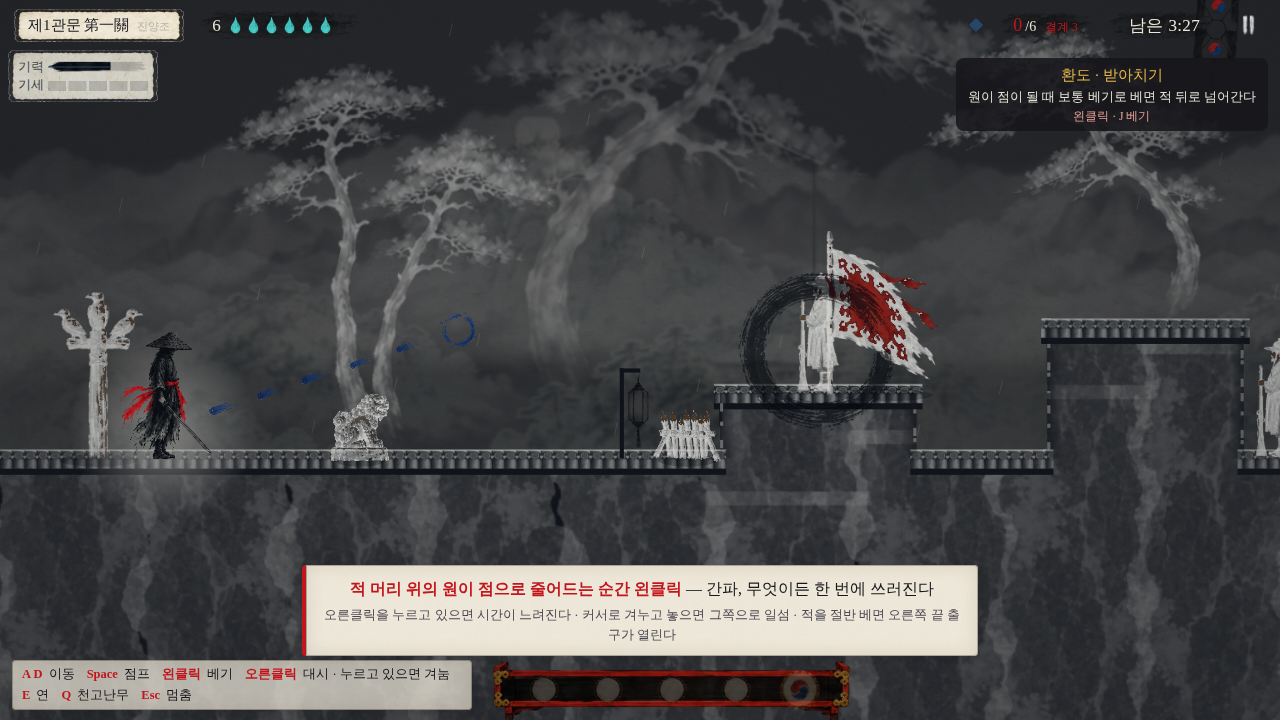
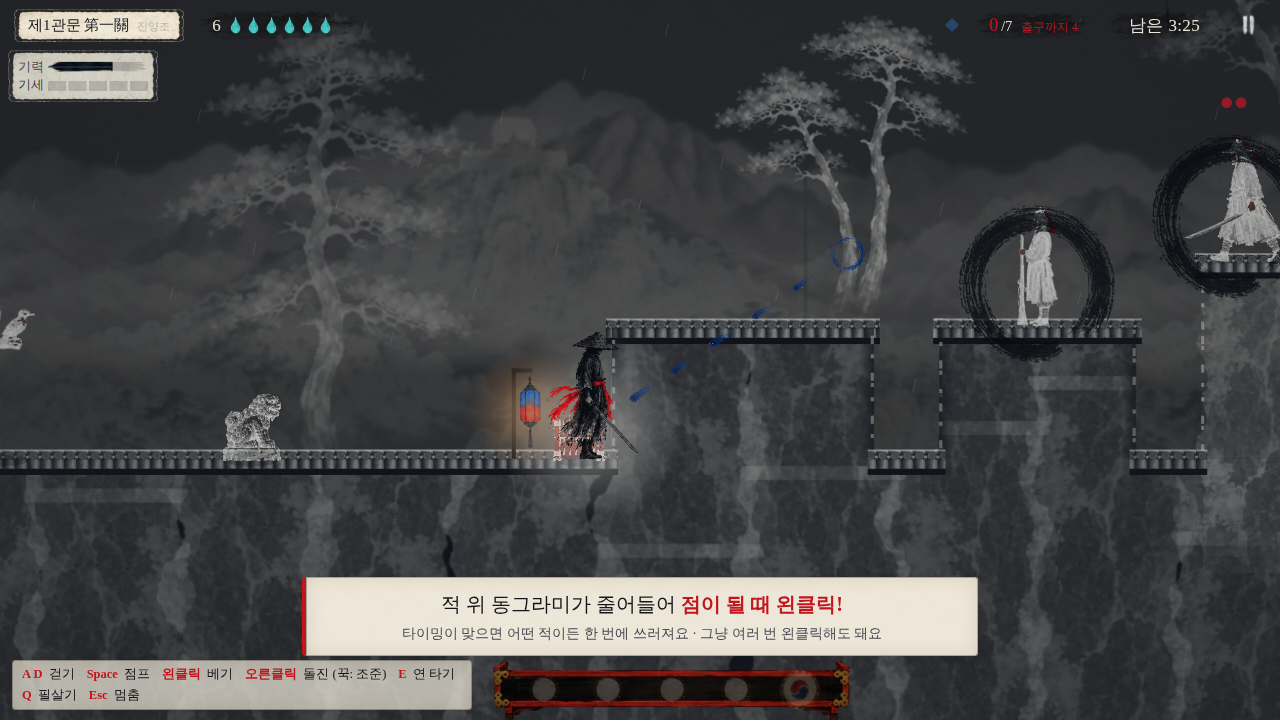
부스판 in plain words for someone who has never played: the title says what to do in three steps; jargon (간파, 무아경, 일섬, 천고난무, 오의, 갈래, 결계, 숨) becomes 타이밍 베기, 돌진, 필살기, 능력, 출구, 생명; the cards say in one line what each choice does; a coach shows one plain line at a time for what is in front of you (walk, the
Claude-Session: https://claude.ai/code/session_01Rc1cVb1vkCQfdutHoe7fgf

diff --git a/js/game.js b/js/game.js
@@ -1663,64 +1663,67 @@ function boothTitle() {
   showScreen("menu"); setTimeout(() => $("bBoothGo").focus({ preventScroll: true }), 30);
 }
 function boothKeys() {
-  board("조작", "마우스와 키보드", [
-    bdRow("이동 · 점프", "A D (또는 ← →) 로 걷고, Space 로 뛴다 · 벽에 붙어 Space 면 벽차기", null),
-    bdRow("베기 — 마우스 왼쪽", "커서 쪽으로 벤다 · 적 머리 위 원이 점으로 줄어드는 순간 베면 간파: 무엇이든 한 번에", null),
-    bdRow("대시 — 마우스 오른쪽 (또는 Shift)", "짧게 누르면 키를 누른 쪽으로 돌진 · 누르고 있으면 무아경: 시간이 느려지고 커서 쪽을 겨눈다, 놓으면 그쪽으로 일섬", null),
-    bdRow("연 — E", "파란 줄이 닿은 연으로 날아오른다", null),
-    bdRow("천고난무 — Q", "왼쪽 아래 북이 가득 차면 화면의 적을 몰아 벤다", null)],
+  board("조작 방법", "마우스와 키보드", [
+    bdRow("걷기 · 점프", "A · D 키로 걷고, Space 로 뛰어요", null),
+    bdRow("베기 — 마우스 왼쪽", "마우스가 있는 쪽을 벱니다 · 적 위 동그라미가 줄어들어 점이 될 때 누르면 한 번에 쓰러져요", null),
+    bdRow("돌진 — 마우스 오른쪽", "누르면 앞으로 돌진 · 꾹 누르고 있으면 시간이 느려지고, 마우스로 방향을 정해 떼면 그쪽으로 베며 돌진해요", null),
+    bdRow("연 타기 — E", "파란 선이 보이면 눌러서 연을 잡고 날아올라요", null),
+    bdRow("필살기 — Q", "아래쪽 북이 가득 차면 주변 적을 한꺼번에 벱니다", null)],
     [["시작하기", boothStart, true], ["돌아가기", boothTitle]]);
 }
 function boothStart() {
   if (hubOn) leaveHub();
   const seed = (Math.random() * 2 ** 32) >>> 0;
   run = { v: 2, booth: true, seed, dateKey: todayKey(), m: 0, cp: -1, dead: [], sp: 0, breath: startBreath(), time: 0, deaths: 0, kills: 0, strikes: 0, slashes: 0, perks: [], weapon: "hwando", oath: null, char: "mumyeong", picking: false, target: BOOTH_BOSSES[seed % BOOTH_BOSSES.length], qi: 0, gates: 0 };
-  mode = "run"; boothLast = performance.now(); Music.unlock(); Music.stop(); showInterlude();
+  mode = "run"; boothLast = performance.now(); coachOn = null; Music.unlock(); Music.stop(); showInterlude();
 }
 function boothGateClear() { // a gate passed: a breath back, then the card for this point of the journey
   logGate("clear"); run.gather = 0; run.gates = (run.gates || 0) + 1;
   { const c = cutCount(); if (c && c.k >= c.n && c.n >= 3) { addQi(20); run.sweeps = (run.sweeps || 0) + 1; popText(P.x + P.w / 2, P.y - 84, "일소", SEAL); } }
-  if (run.breath < BOOTH_CFG.breath) { run.breath++; toast(`숨을 골랐다 · 숨 ${run.breath}`); }
+  if (run.breath < BOOTH_CFG.breath) { run.breath++; toast(`관문 통과! 생명 +1`); } else toast("관문 통과!");
   const first = run.m === 0;
   run.m = first ? 1 : LAST_M; run.node = null; run.nakN = 0; run.janUsed = false; run.senN = 0; run.fudoN = 0; run.cp = -1; run.dead = []; run.cutDrums = [];
   state = "result"; setTimeout(() => first ? boothBranch() : boothFork(), 700);
 }
 const boothGlyph = c => c.han || (c.name || "?").slice(0, 2);
+const BOOTH_PLAIN = { br: { hwando: ["타이밍 베기를 연달아 성공할수록 강해지고, 필살기 게이지가 빨리 차요", "벤 자리에 분신이 남아 0.4초 뒤 한 번 더 벱니다", "날아오는 탄을 베면 되돌아가 가까운 적을 맞혀요"] },
+  fork: { hw_a3x: "타이밍 베기 판정이 더 넉넉해져요", hw_a3y: "타이밍 베기에 성공하면 공중에서 한 번 더 돌진하고, 필살기 게이지가 두 배로 차요",
+    hw_b3x: "오른클릭을 꾹 눌렀다 떼면 가까운 적 등 뒤로 넘어가 벱니다", hw_b3y: "돌진으로 적을 베면 공중에서 한 번 더 돌진할 수 있어요",
+    hw_c3x: "타이밍 베기 뒤 1.5초 동안 탄을 막아요", hw_c3y: "타이밍 베기 순간 주변의 탄이 사라져요" } };
 function boothBranch() { // after the first gate: one of the weapon's three branches, its first two steps learned at once
   const tk = treeKey(), TR = TREES[tk]; if (!TR) { Music.stop(); showInterlude(); return; }
   const step = (bi, t) => CHOSIK.find(c => c.tree === tk && c.br === bi && c.tier === t && nodeShown(c) && !c.alt) || CHOSIK.find(c => c.tree === tk && c.br === bi && c.tier === t && nodeShown(c));
   const items = TR.br.map((b, bi) => { const a = step(bi, 1), b2 = step(bi, 2), og = CHOSIK.find(c => c.tree === tk && c.br === bi && c.ougi);
-    return { id: bi, name: b.name, han: b.han, glyph: b.han || b.name, desc: [a, b2].filter(Boolean).map(c => `${c.name} — ${c.desc}`).join("\n") + (og ? `\n끝에 오의 「${og.name}」` : "") }; });
-  pickScreen("갈래를 골라라", "관문 하나를 넘었다 · 고른 갈래의 1·2단을 바로 익힌다", items, it => {
+    return { id: bi, name: b.name, han: b.han, glyph: b.han || b.name, desc: (BOOTH_PLAIN.br[tk] && BOOTH_PLAIN.br[tk][bi]) || [a, b2].filter(Boolean).map(c => `${c.name} — ${c.desc}`).join("\n") }; });
+  pickScreen("능력을 하나 고르세요", "첫 관문 통과! 마음에 드는 카드를 마우스로 누르세요", items, it => {
     const root = CHOSIK.find(c => c.tree === tk && c.tier === 0);
     for (const c of [root, step(it.id, 1), step(it.id, 2)]) if (c && !run.perks.includes(c.id)) run.perks.push(c.id);
-    run.boothBr = it.id; toast(`${it.name} 갈래를 익혔다`); Music.stop(); showInterlude(); });
+    run.boothBr = it.id; toast(`「${it.name}」 능력을 얻었어요`); Music.stop(); showInterlude(); });
 }
 function boothFork() { // before 천고대: one of the branch's two 3단, the 4단 with it — and 천고난무 becomes the 오의
   const tk = treeKey(), bi = run.boothBr ?? 0, shown = c => c.tree === tk && c.br === bi && nodeShown(c);
   const forks = CHOSIK.filter(c => shown(c) && c.tier === 3), t4 = CHOSIK.find(c => shown(c) && c.tier === 4), og = CHOSIK.find(c => c.tree === tk && c.br === bi && c.ougi);
   const go = id => { if (id && !run.perks.includes(id)) run.perks.push(id); if (t4 && !run.perks.includes(t4.id)) { run.perks.push(t4.id); branchEnd(t4); }
-    run.breath = Math.max(run.breath, 4); run.qi = Math.max(run.qi || 0, 60); Music.stop(); showInterlude(); };
+    run.breath = Math.max(run.breath, 4); run.qi = Math.max(run.qi || 0, 60); toast("필살기(Q)가 강해졌어요"); Music.stop(); showInterlude(); };
   if (!forks.length) { go(null); return; }
-  pickScreen("오의를 깨쳐라", `천고대 앞 · 하나를 고르면 4단${t4 ? ` 「${t4.name}」` : ""}까지 익히고, 천고난무가 오의${og ? ` 「${og.name}」` : ""}로 바뀐다`,
-    forks.map(c => ({ id: c.id, name: c.name, han: c.han, glyph: boothGlyph(c), desc: c.desc })), it => go(it.id));
+  pickScreen("하나 더 고르세요", "다음은 마지막 우두머리! 고르면 필살기(Q)도 더 강해져요", forks.map(c => ({ id: c.id, name: c.name, han: c.han, glyph: boothGlyph(c), desc: BOOTH_PLAIN.fork[c.id] || c.desc })), it => go(it.id));
 }
 function boothRevive() { // the last breath gone, once: this gate again from its start with four breaths
   if (run.revived || run.timeUp || run.ended) return false;
   run.revived = true; run.breath = BOOTH_CFG.revive; run.cp = -1; run.dead = []; run.cutDrums = []; state = "result";
-  toast(`한 번 더 — 이 관문을 처음부터 · 숨 ${run.breath}`); setTimeout(() => { Music.stop(); showInterlude(); }, 1100); return true;
+  toast(`한 번 더! 이 관문을 처음부터 다시 해요 · 생명 ${run.breath}`); setTimeout(() => { Music.stop(); showInterlude(); }, 1100); return true;
 }
-function boothBossDown() { run.bossDown = true; toast("우두머리를 베었다"); setTimeout(() => { if (run && run.booth && run.bossDown && !run.ended && state === "play") endRun(true); }, 2400); }
+function boothBossDown() { run.bossDown = true; toast("우두머리를 쓰러뜨렸어요!"); setTimeout(() => { if (run && run.booth && run.bossDown && !run.ended && state === "play") endRun(true); }, 2400); }
 function boothEnd(won) {
   if (run.ended) return; run.ended = true; state = "result"; Music.stop(); Music.muffle(false); if (P) P.focus = false;
   const left = Math.max(0, BOOTH_CFG.limit - run.time), boss = run.m >= LAST_M;
   const score = Math.round(run.kills * 10 + (run.kanpa || 0) * 25 + (run.perfectN || 0) * 40 + (run.gates || 0) * 150 + (boss ? 150 : 0) + (won ? 1000 + left * 4 : 0));
   const grade = score >= 2000 ? "甲" : score >= 1300 ? "乙" : score >= 600 ? "丙" : "丁";
   run.score = score; run.grade = grade; run.won = !!won;
-  $("rSeal").textContent = grade; $("rTitle").textContent = won ? "천고를 울렸다" : run.timeUp ? "시간이 다했다" : "여기까지";
-  $("rSub").textContent = won ? `${(BOSSES[run.target] || {}).name || "우두머리"}를 베었다 · 남은 시간 ${Math.floor(left)}초` : run.timeUp ? `${stageName(run.m)}에서 시간이 다했다` : `${stageName(run.m)}에서 ${run.lastCause ? run.lastCause + "에 " : ""}마지막 숨을 잃었다`;
+  $("rSeal").textContent = grade; $("rTitle").textContent = won ? "승리!" : run.timeUp ? "시간 끝" : "여기까지";
+  $("rSub").textContent = won ? `우두머리 ${josa((BOSSES[run.target] || {}).name || "우두머리", "을", "를")} 쓰러뜨렸어요 · 남은 시간 ${Math.floor(left)}초` : run.timeUp ? `${run.m >= LAST_M ? "우두머리" : `${run.m + 1}번째 관문`}에서 시간이 다 됐어요` : `${run.m >= LAST_M ? "우두머리" : `${run.m + 1}번째 관문`}에서 생명을 모두 잃었어요`;
   $("rStats").innerHTML = "";
-  for (const [k, v] of [["점수", `${score}점`], ["등급", grade], ["넘은 관문", `${run.gates || 0} / 2${won ? " · 천고대" : ""}`], ["벤 적", run.kills], ["간파", `${run.kanpa || 0}회`], ["시간", fmt(run.time)]]) {
+  for (const [k, v] of [["점수", `${score}점`], ["등급", grade], ["지나온 관문", `${run.gates || 0} / 2${won ? " · 우두머리" : ""}`], ["벤 적", run.kills], ["타이밍 베기", `${run.kanpa || 0}번`], ["시간", fmt(run.time)]]) {
     const a = document.createElement("span"), b = document.createElement("b"); a.textContent = k; b.textContent = v; $("rStats").append(a, b); }
   $("rRec").textContent = ""; const top = boothTop(10); const rank = top.filter(e => e.s > score).length + 1; if (rank <= 10) $("rRec").textContent = `오늘 ${rank}위에 들 점수`;
   $("boothName").hidden = false; const inp = $("nameIn"); inp.value = ""; showScreen("result"); setTimeout(() => inp.focus({ preventScroll: true }), 60);
@@ -1735,16 +1738,39 @@ function boothBoard(me) {
   if (!rows.length) rows.push(bdRow("아직 아무도 없다", "", null));
   board("오늘의 순위", todayKey(), rows, [["다시 하기", boothStart, true], ["처음으로", boothTitle]]);
 }
+// 안내: one plain line at a time, for what is in front of the player right now; each once a journey
+const nearFoe = r => P && enemies.some(e => e.alive && e.type !== "b" && Math.hypot(e.x + e.w / 2 - P.x - P.w / 2, e.y + e.h / 2 - P.y - P.h / 2) < r);
+const exitShutNear = () => { const c = cutCount(); return !!(c && LV.exit && c.k < c.need && LV.exit.x - P.x < 520 && LV.exit.x > P.x) && c; };
+const COACH = [
+  { id: "move", when: () => run.m === 0, done: c => P.x - c.x0 > 200, max: 14, t: () => "<b>A · D 키</b>로 오른쪽으로 가세요", s: "Space = 점프" },
+  { id: "cut", when: () => run.kills === 0 && nearFoe(380), done: () => run.kills > 0, max: 18, t: () => "적 위 동그라미가 줄어들어 <b>점이 될 때 왼클릭!</b>", s: "타이밍이 맞으면 어떤 적이든 한 번에 쓰러져요 · 그냥 여러 번 왼클릭해도 돼요" },
+  { id: "dash", when: () => run.kills >= 1 && run.m === 0, done: () => false, max: 8, t: () => "<b>오른클릭 = 돌진</b>", s: "꾹 누르고 있으면 시간이 느려져요 · 마우스로 방향을 정하고 떼면 그쪽으로 베며 돌진" },
+  { id: "hurt", when: () => run.breath < BOOTH_CFG.breath && !run.revived, done: () => false, max: 6, t: () => "왼쪽 위 <b>물방울이 생명</b>이에요", s: "다 잃어도 한 번은 그 관문부터 다시 할 수 있어요" },
+  { id: "kite", when: () => !!(hookCand && !hookCand.enemy), done: () => !!run.hooked, max: 8, t: () => "파란 선이 보이면 <b>E</b> — 연을 잡고 날아올라요", s: "" },
+  { id: "exit", when: () => !!exitShutNear(), done: () => !exitShutNear(), max: 9, t: () => { const c = cutCount(); return `출구가 막혀 있어요 — 적을 <b>${c ? Math.max(0, c.need - c.k) : 0}명</b> 더 베세요`; }, s: "오른쪽 위 숫자 = 벤 적 / 전체" },
+  { id: "qi", when: () => (run.qi || 0) >= 100, done: () => (run.qi || 0) < 100, max: 14, t: () => "북이 가득 찼어요! <b>Q = 필살기</b>", s: "주변 적을 한꺼번에 벱니다" },
+  { id: "boss", when: () => run.m >= LAST_M, done: () => false, max: 9, t: () => "마지막 우두머리! <b>위쪽 체력</b>이 다 닳으면 승리", s: "공격은 점프나 오른클릭 돌진으로 피하고, 몸이 번쩍일 때 몰아서 베세요" }];
+let coachOn = null, coachAt = 0, coachKey = "";
+function boothCoach(playing) {
+  const el = $("boothHelp"); if (!playing || !P) { el.hidden = true; return; }
+  const seen = run.coach = run.coach || {}, now = performance.now();
+  if (coachOn && (coachOn.done(coachOn) || (now - coachAt) / 1000 > coachOn.max)) { seen[coachOn.id] = 1; coachOn = null; }
+  if (!coachOn) for (const c of COACH) if (!seen[c.id] && c.when()) { coachOn = c; c.x0 = P.x; coachAt = now; break; }
+  if (!coachOn) { el.hidden = true; return; }
+  const t = coachOn.t(), key = coachOn.id + t; if (key !== coachKey) { coachKey = key; el.innerHTML = `<span>${t}</span>${coachOn.s ? `<small>${coachOn.s}</small>` : ""}`; }
+  el.hidden = false;
+}
 function boothTick() { // four times a second: the time limit, an idle booth going back to its title, the interlude walking on by itself, the hints
   if (!BOOTH) return; const now = performance.now(), idle = (now - boothLast) / 1000, menu = !$("menu").hidden;
   const st = state + ($("interlude").hidden ? "" : ":i"); if (st !== boothState) { boothState = st; boothStateAt = now; }
   const playing = state === "play" && run && run.booth;
-  if (playing && run.time >= BOOTH_CFG.limit && !run.timeUp && !run.ended) { run.timeUp = true; toast("시간이 다했다"); endRun(false); }
+  if (playing && run.time >= BOOTH_CFG.limit && !run.timeUp && !run.ended) { run.timeUp = true; toast("시간이 다 됐어요"); endRun(false); }
+  if (!$("interlude").hidden && run && run.booth) $("iMeta").textContent = run.m >= LAST_M ? "마지막 · 우두머리와 싸워요 · 곧 시작해요" : `관문 ${run.m + 1} / 2 · 곧 시작해요`;
   if (!$("interlude").hidden && run && run.booth && now - boothStateAt > 2600) { boothStateAt = now + 1e9; $("bEnter").click(); }
   if (!menu && idle > (playing ? BOOTH_CFG.idlePlay : BOOTH_CFG.idleMenu) && document.activeElement !== $("nameIn")) boothTitle();
   if (!menu && idle > 90) boothTitle();
   $("boothKeys").hidden = !playing;
-  $("boothHelp").hidden = !(playing && run.m === 0 && run.time < 24 && !run.revived);
+  boothCoach(playing);
 }
 if (BOOTH) {
   document.body.classList.add("booth");
@@ -2549,7 +2575,7 @@ function playerHazards() {
     }
   });
   if (LV.exit && overlap(pr, LV.exit) && !bossAlive()) { const c = cutCount();
-    if (c && c.k < c.need) { P.x = LV.exit.x - P.w - 6; P.vx = -260; shake = Math.max(shake, 4); if (performance.now() - (LV.sealToast || 0) > 1800) { LV.sealToast = performance.now(); toast(`결계 · ${c.need - c.k}명을 더 베어야 열린다 (${c.k}/${c.n})`); Music.sfx("clang"); } }
+    if (c && c.k < c.need) { P.x = LV.exit.x - P.w - 6; P.vx = -260; shake = Math.max(shake, 4); if (performance.now() - (LV.sealToast || 0) > 1800) { LV.sealToast = performance.now(); toast(BOOTH ? `출구가 막혀 있어요 · 적을 ${c.need - c.k}명 더 베세요` : `결계 · ${c.need - c.k}명을 더 베어야 열린다 (${c.k}/${c.n})`); Music.sfx("clang"); } }
     else madangClear(); }
 }
 
@@ -2590,7 +2616,7 @@ function cutCount() {
   return { k, n, need: Math.ceil(n * (BOOTH ? BOOTH_CFG.cut : TUNING.GATE_CUT_RATIO)) };
 }
 function stepChase(dt) {
-  const c = cutCount(); if (c && c.k >= c.need && !LV.sealOpen) { LV.sealOpen = true; Music.sfx("lantern"); toast(c.k >= c.n ? "결계가 풀렸다 · 일소" : `결계가 풀렸다 · 출구로 · 남은 적 ${c.n - c.k}`); }
+  const c = cutCount(); if (c && c.k >= c.need && !LV.sealOpen) { LV.sealOpen = true; Music.sfx("lantern"); toast(BOOTH ? "출구가 열렸어요 · 오른쪽 끝으로 가세요" : c.k >= c.n ? "결계가 풀렸다 · 일소" : `결계가 풀렸다 · 출구로 · 남은 적 ${c.n - c.k}`); }
   if (!c || c.k >= c.need && !(run.gate && run.gate.goal === "time")) return;
   if ((LV.chaseT = (LV.chaseT || TUNING.CHASE_EVERY) - dt) > 0) return; LV.chaseT = TUNING.CHASE_EVERY;
   if (LV.arenas && LV.arenas.some(a => a.st === 1)) return;
@@ -3599,13 +3625,14 @@ let hudCache = "";
 function updateHud() {
   const t = run.booth ? `남은 ${fmt(Math.max(0, BOOTH_CFG.limit - run.time)).replace(/\.\d+$/, "")}` : fmt(run.time), pip = (P.onGround || P.airDash > 0) && P.dashCd <= 0, hk = !!hookCand, key = t + pip + hk;
   { const el = $("hCoin"), v = run && !run.hub && !run.booth && mode !== "tutorial" ? `${run.coin || 0}` : "", key = `${v}|${(run && run.charm) || 0}`; if (el && el.dataset.t !== key) { el.dataset.t = key; el.hidden = !v; el.innerHTML = `<i class="itc" aria-label="엽전"></i><b>${v}</b>${run.charm ? `<i class="itc ch" aria-label="부적"></i><small>${run.charm}</small>` : ""}`; } }   // the key holds the charms too, so a bought 부적 shows at once
-  { const c = cutCount(), el = $("hCut"), txt = c ? `벤 적 ${c.k}/${c.n}` : ""; if (el && el.dataset.t !== txt) { el.dataset.t = txt; el.hidden = !c; if (c) { el.innerHTML = `<b>${c.k}</b>/${c.n}<small>${c.k < c.need ? `결계 ${c.need - c.k}` : c.k >= c.n ? "일소" : "열림"}</small>`; el.classList.toggle("open", c.k >= c.need); } } }
+  { const c = cutCount(), el = $("hCut"), txt = c ? `벤 적 ${c.k}/${c.n}` : ""; if (el && el.dataset.t !== txt) { el.dataset.t = txt; el.hidden = !c; if (c) { el.innerHTML = `<b>${c.k}</b>/${c.n}<small>${c.k < c.need ? (BOOTH ? `출구까지 ${c.need - c.k}` : `결계 ${c.need - c.k}`) : c.k >= c.n ? (BOOTH ? "모두 벰" : "일소") : (BOOTH ? "출구 열림" : "열림")}</small>`; el.classList.toggle("open", c.k >= c.need); } } }
   { const gt = gateGoalText(); if (gt !== (P.goalShown ?? null)) { P.goalShown = gt; $("hJang").classList.toggle("goal", !!gt); if (gt) $("hJang").textContent = gt; else setHud(); } }
   if (key === hudCache) return; hudCache = key;
   $("hTime").textContent = t + (showFps ? ` · ${fpsNow}fps ${workMs.toFixed(0)}ms ${Math.round(1000 / vsyncMs)}Hz ${DPR}x${GPU_SOFT ? " SW" : ""}` : ""); $("pip").classList.toggle("on", pip); $("bHook").classList.toggle("ready", hk);
 }
 let tipT = 0;
 function tip(title, desc, keys) { // 첫 사용 안내: shown once per thing, for a few seconds
+  if (BOOTH && run && run.booth) return;
   $("tipT").textContent = title; $("tipD").textContent = desc; $("tipK").textContent = keys || ""; const el = $("tip"); el.hidden = false; requestAnimationFrame(() => el.classList.add("on")); tipT = 4.5; }
 function tipOnce(id, title, desc, keys) { META.tips = META.tips || {}; if (META.tips[id]) return; META.tips[id] = 1; saveMeta(); tip(title, desc, keys); }
 const WTIP = {   // how each weapon's own move is done, by the rules it plays by

diff --git a/index.html b/index.html
@@ -11,8 +11,8 @@
 <meta name="apple-mobile-web-app-status-bar-style" content="black-translucent">
 <meta name="apple-mobile-web-app-title" content="천고">
 <link rel="manifest" href="manifest.webmanifest">
-<link rel="icon" href="icons/icon-192.png?v=10230100">
-<link rel="apple-touch-icon" href="icons/apple-touch-icon.png?v=10230100">
+<link rel="icon" href="icons/icon-192.png?v=10230200">
+<link rel="apple-touch-icon" href="icons/apple-touch-icon.png?v=10230200">
 <link rel="preconnect" href="https://fonts.googleapis.com">
 <link rel="preconnect" href="https://fonts.gstatic.com" crossorigin>
 <link rel="stylesheet" href="https://fonts.googleapis.com/css2?family=Song+Myung&display=swap">
@@ -20,7 +20,7 @@
 <link rel="stylesheet" href="https://fonts.googleapis.com/css2?family=Nanum+Myeongjo&display=swap&text=%E4%B8%80%E4%B8%89%E4%B8%8A%E4%B8%8B%E4%B8%8D%E4%B8%99%E4%B8%9E%E4%B8%AD%E4%B8%B8%E4%B8%B9%E4%B8%BB%E4%B9%99%E4%B9%9D%E4%BA%82%E4%BA%8C%E4%BA%94%E4%BA%95%E4%BA%AD%E4%BF%83%E4%BF%AE%E5%81%87%E5%81%9C%E5%83%A7%E5%85%89%E5%85%A5%E5%85%A9%E5%85%AD%E5%85%B5%E5%85%B7%E5%86%A4%E5%86%B6%E5%86%B7%E5%87%8C%E5%88%80%E5%88%83%E5%88%86%E5%88%87%E5%88%91%E5%88%9D%E5%88%BA%E5%89%9B%E5%8A%8D%E5%8A%9B%E5%8A%9F%E5%8B%95%E5%8B%9D%E5%8B%A2%E5%8D%83%E5%8D%B4%E5%8D%B7%E5%8E%84%E5%8F%8D%E5%8F%A3%E5%8F%AF%E5%90%8D%E5%90%B8%E5%91%B5%E5%91%BD%E5%9B%9B%E5%9B%9E%E5%9C%B0%E5%9D%90%E5%A0%82%E5%A1%94%E5%A1%9E%E5%A2%83%E5%A2%93%E5%A2%9C%E5%A3%81%E5%A3%87%E5%A3%9E%E5%A4%A7%E5%A4%A9%E5%A4%B7%E5%A5%A7%E5%A5%AA%E5%A5%B3%E5%A6%99%E5%AD%97%E5%AD%A4%E5%AE%88%E5%AE%97%E5%AF%82%E5%AF%9E%E5%B0%84%E5%B0%87%E5%B0%8E%E5%B0%BE%E5%B1%88%E5%B1%B1%E5%B6%BA%E5%B7%AB%E5%B7%AE%E5%B8%B3%E5%B8%B6%E5%B9%95%E5%B9%B3%E5%B9%BB%E5%BA%AB%E5%BC%93%E5%BC%95%E5%BD%88%E5%BD%B1%E5%BE%8B%E5%BE%90%E5%BE%91%E5%BF%83%E5%BF%85%E5%BF%B5%E6%80%92%E6%80%A5%E6%81%AF%E6%87%89%E6%88%90%E6%88%B0%E6%88%BF%E6%89%80%E6%89%87%E6%89%8B%E6%89%93%E6%8B%8D%E6%8B%94%E6%8C%81%E6%8D%AE%E6%8E%A5%E6%8E%A8%E6%8F%9B%E6%93%8A%E6%94%B6%E6%95%A3%E6%96%A4%E6%96%AC%E6%96%B7%E6%97%8B%E6%98%87%E6%98%8E%E6%98%9F%E6%9A%B4%E6%9B%89%E6%9B%B8%E6%9C%88%E6%9C%9B%E6%9C%AC%E6%9D%BF%E6%9E%97%E6%A1%B6%E6%A2%85%E6%A2%AF%E6%A5%AD%E6%A7%8C%E6%A7%8D%E6%A8%93%E6%A9%9F%E6%AD%A2%E6%AD%A3%E6%AD%A5%E6%AD%A6%E6%AD%B8%E6%AD%BB%E6%AE%98%E6%AE%BA%E6%AE%BF%E6%B0%A3%E6%B0%B4%E6%B1%BA%E6%B3%89%E6%B3%95%E6%B4%BE%E6%B5%81%E6%B7%B1%E6%B7%B5%E6%B8%A1%E6%BA%96%E6%BB%85%E6%BB%91%E6%BB%BF%E6%BD%9B%E6%BF%83%E6%BF%A4%E7%81%AB%E7%82%8E%E7%82%B8%E7%83%8F%E7%84%A1%E7%84%B0%E7%85%99%E7%85%A7%E7%86%9F%E7%86%B1%E7%87%92%E7%87%95%E7%88%86%E7%89%8C%E7%8B%82%E7%8B%90%E7%8B%99%E7%8D%A8%E7%8D%AC%E7%8E%84%E7%8E%8B%E7%92%B0%E7%94%95%E7%94%9F%E7%94%B0%E7%94%B2%E7%96%BE%E7%99%BB%E7%99%BC%E7%99%BD%E7%9B%9F%E7%9B%A1%E7%9B%B8%E7%9C%8B%E7%9C%BC%E7%9D%80%E7%9E%AC%E7%9F%AD%E7%9F%B3%E7%A0%B2%E7%A0%B4%E7%A2%91%E7%A5%9E%E7%A5%A0%E7%A7%98%E7%A9%BA%E7%AA%81%E7%AA%9F%E7%AB%B9%E7%AC%88%E7%AC%A6%E7%AC%AC%E7%AD%92%E7%AE%A1%E7%AE%AD%E7%B4%85%E7%B5%82%E7%B5%90%E7%B5%B2%E7%B5%B6%E7%B6%AD%E7%B6%B2%E7%B6%B5%E7%B7%A3%E7%B7%B4%E7%B8%9B%E7%B8%AE%E7%B9%A9%E7%BA%8C%E7%BD%A1%E7%BD%AE%E7%BE%85%E7%BE%A9%E7%BF%94%E7%BF%BC%E8%81%B2%E8%83%8E%E8%84%9A%E8%87%BA%E8%88%9E%E8%8A%B1%E8%90%AC%E8%90%BD%E8%93%84%E8%97%A5%E8%99%8E%E8%99%95%E8%99%9B%E8%99%9F%E8%9E%AD%E8%A1%80%E8%A1%8C%E8%A1%93%E8%A1%9D%E8%A1%A3%E8%A2%96%E8%A3%82%E8%A5%B2%E8%A6%81%E8%A7%92%E8%A7%A3%E8%AA%93%E8%AA%98%E8%AA%BF%E8%AD%B7%E8%B0%B7%E8%B1%B8%E8%B3%AD%E8%B5%A4%E8%B5%B0%E8%B6%8A%E8%B6%B3%E8%B7%9D%E8%B7%A1%E8%B7%AF%E8%B7%B3%E8%B8%8F%E8%BA%8D%E8%BA%AB%E8%BB%8A%E8%BB%8D%E8%BC%95%E8%BC%AA%E8%BF%8E%E8%BF%91%E8%BF%94%E8%BF%BD%E9%80%86%E9%80%90%E9%80%9F%E9%80%A3%E9%81%8E%E9%81%A0%E9%82%84%E9%87%8C%E9%87%8D%E9%87%91%E9%88%B4%E9%8A%80%E9%8A%83%E9%8D%8A%E9%8D%9B%E9%8E%96%E9%8E%AD%E9%8F%A1%E9%90%B5%E9%95%B7%E9%96%80%E9%96%83%E9%96%93%E9%96%A3%E9%97%9C%E9%98%B2%E9%99%8D%E9%99%A3%E9%99%A4%E9%9A%AA%E9%9B%99%E9%9B%A2%E9%9B%A8%E9%9B%B2%E9%9B%B6%E9%9B%B7%E9%9B%BB%E9%9C%86%E9%9C%87%E9%9C%A7%E9%9C%B9%E9%9D%82%E9%9D%88%E9%9D%91%E9%9D%9C%E9%9D%A2%E9%A2%A8%E9%A3%9B%E9%A3%9F%E9%A6%99%E9%A6%AC%E9%A8%B0%E9%AA%A8%E9%AC%BC%E9%AD%82%E9%AD%9A%E9%B3%A5%E9%B3%B6%E9%B5%B2%E9%B6%B4%E9%B7%B9%E9%BB%91%E9%BC%93%E9%BD%8A%E9%BE%8D">
 <link rel="preload" as="image" href="assets/load-wide.webp" media="(orientation: landscape)">
 <link rel="preload" as="image" href="assets/load-tall.webp" media="(orientation: portrait)">
-<link rel="stylesheet" href="style.css?v=10230100">
+<link rel="stylesheet" href="style.css?v=10230200">
 <link rel="preload" as="image" href="assets/ld-bg-wide.webp" media="(orientation: landscape)"><link rel="preload" as="image" href="assets/ld-bg-tall.webp" media="(orientation: portrait)">
 </head>
 <body>
@@ -59,11 +59,11 @@
         <p class="lede">새벽을 열던 북이 멈췄다.<br>이름을 빼앗긴 검객이 천고탑을 오른다 — 벨 때마다 한 획씩, 잃은 이름이 돌아온다.</p>
       </div>
       <div class="col" id="boothCol">
-        <p class="bth-lede">먹으로 그린 검객이 되어 장단에 맞춰 벤다.<br>관문 둘을 넘고 천고대의 우두머리를 베라 — <b>3분 체험</b></p>
+        <ol class="bth-how"><li>오른쪽으로 가면서 적을 베요</li><li>관문 2개를 지나요</li><li>마지막 우두머리를 쓰러뜨리면 승리! <b>약 3분</b></li></ol>
         <button class="btn pri" id="bBoothGo">시작하기 <small>Enter</small></button>
         <button class="btn" id="bBoothKeys">조작 보기</button>
         <div class="bth-top"><h3>오늘의 순위</h3><ol id="boothTop"></ol></div>
-        <p class="note">마우스 왼쪽 베기 · 오른쪽 누르고 겨눠 일섬 · A D 이동 · Space 점프</p>
+        <p class="note">A · D 걷기 · Space 점프 · <b>왼클릭 베기</b> · <b>오른클릭 돌진</b> · 하면서 화면에 안내가 나와요</p>
       </div>
       <div class="col" id="fullCol">
         <button class="btn pri" id="bContinue" hidden>이어하기</button>
@@ -155,7 +155,7 @@
       <div class="stats" id="rStats"></div>
       <div class="rec" id="rRec"></div>
       <div class="bth-name" id="boothName" hidden>
-        <label for="nameIn">이름 세 글자를 남긴다</label>
+        <label for="nameIn">순위에 남길 이름 (3글자까지)</label>
         <div class="row2"><input id="nameIn" maxlength="3" autocomplete="off" spellcheck="false" placeholder="이름"><button class="btn pri" id="bNameOk">남기기</button><button class="btn ghost" id="bNameSkip">건너뛰기</button></div>
       </div>
       <div class="row2 res-btns">
@@ -178,11 +178,8 @@
   </section>
 
   <button id="bAct" hidden></button>
-  <div id="boothKeys" hidden><span><b>A D</b> 이동</span><span><b>Space</b> 점프</span><span><b>왼클릭</b> 베기</span><span><b>오른클릭</b> 대시 · 누르고 있으면 겨눔</span><span><b>E</b> 연</span><span><b>Q</b> 천고난무</span><span><b>Esc</b> 멈춤</span></div>
-  <div id="boothHelp" hidden>
-    <b>적 머리 위의 원이 점으로 줄어드는 순간 왼클릭</b> — 간파, 무엇이든 한 번에 쓰러진다
-    <small>오른클릭을 누르고 있으면 시간이 느려진다 · 커서로 겨누고 놓으면 그쪽으로 일섬 · 적을 절반 베면 오른쪽 끝 출구가 열린다</small>
-  </div>
+  <div id="boothKeys" hidden><span><b>A D</b> 걷기</span><span><b>Space</b> 점프</span><span><b>왼클릭</b> 베기</span><span><b>오른클릭</b> 돌진 (꾹: 조준)</span><span><b>E</b> 연 타기</span><span><b>Q</b> 필살기</span><span><b>Esc</b> 멈춤</span></div>
+  <div id="boothHelp" hidden></div>
   <div id="hubTitle" hidden><b>천고</b><span id="nameLine2"></span><p>산문으로 걸어가 길을 떠난다 · 건물 앞에서 ▲</p></div>
   <div id="toast"></div>
   <div id="tip" hidden><b id="tipT"></b><span id="tipD"></span><small id="tipK"></small></div>
@@ -196,11 +193,11 @@
   (ld.querySelector(".ld-in") || ld).appendChild(b); }
   window.addEventListener("error", function () { setTimeout(rescue, 1500); }); setTimeout(rescue, 25000); })();
 </script>
-<script src="js/tuning.js?v=10230100"></script>
-<script src="js/content.js?v=10230100"></script>
-<script src="js/data.js?v=10230100"></script>
-<script src="js/music.js?v=10230100"></script>
-<script src="js/game.js?v=10230100"></script>
+<script src="js/tuning.js?v=10230200"></script>
+<script src="js/content.js?v=10230200"></script>
+<script src="js/data.js?v=10230200"></script>
+<script src="js/music.js?v=10230200"></script>
+<script src="js/game.js?v=10230200"></script>
 <script>
 if ("serviceWorker" in navigator && (location.protocol === "https:" || location.hostname === "localhost")) {
   window.addEventListener("load", () => navigator.serviceWorker.register("sw.js", { updateViaCache: "none" }).then(r => r.update()).catch(() => {}));

diff --git a/style.css b/style.css
@@ -580,6 +580,9 @@ body.booth #fullCol, body.booth .menu .lede, body.booth #nameLine { display: non
 body.booth #bTree, body.booth .res-btns { display: none !important; }
 body.booth #cv { cursor: crosshair; }
 .bth-lede { font-family: var(--f-head); font-size: 16px; line-height: 1.6; color: var(--ink-2); margin: 0 0 6px; }
+.bth-how { margin: 0 0 8px; padding-left: 1.4em; font-family: var(--f-head); font-size: 17px; line-height: 1.7; color: var(--ink); }
+.bth-how b { color: var(--seal); white-space: nowrap; }
+body.booth .menu .note b { color: var(--seal); }
 .bth-lede b { color: var(--seal); font-weight: 700; white-space: nowrap; }
 #bBoothGo { font-size: 20px; padding: 14px 18px; }
 #bBoothGo small { font-size: 12px; opacity: .7; margin-left: 6px; }
@@ -594,9 +597,9 @@ body.booth #cv { cursor: crosshair; }
 .bth-top li.none::before { content: none; }
 #boothKeys { position: absolute; left: 12px; bottom: 10px; z-index: 6; display: flex; flex-wrap: wrap; gap: 4px 12px; max-width: calc(50vw - 200px); padding: 6px 10px; font-size: 12.5px; color: var(--ink); background: rgba(240, 234, 220, .72); border-radius: 4px; box-shadow: var(--hanji-edge); pointer-events: none; }
 #boothKeys b { color: var(--seal); margin-right: 3px; }
-#boothHelp { position: absolute; left: 50%; bottom: 64px; transform: translateX(-50%); z-index: 6; width: min(640px, 88vw); padding: 12px 16px; text-align: center; font-size: 16px; line-height: 1.5; color: var(--ink); background: linear-gradient(rgba(240,234,220,.9), rgba(240,234,220,.9)), var(--hanji); border-left: 4px solid var(--seal); box-shadow: var(--hanji-edge); border-radius: 4px; pointer-events: none; animation: bthIn .4s ease-out; }
+#boothHelp { position: absolute; left: 50%; bottom: 64px; transform: translateX(-50%); z-index: 6; width: min(640px, 88vw); padding: 12px 16px; text-align: center; font-size: 20px; line-height: 1.5; color: var(--ink); background: linear-gradient(rgba(240,234,220,.9), rgba(240,234,220,.9)), var(--hanji); border-left: 4px solid var(--seal); box-shadow: var(--hanji-edge); border-radius: 4px; pointer-events: none; animation: bthIn .4s ease-out; }
 #boothHelp b { color: var(--seal); }
-#boothHelp small { display: block; margin-top: 4px; font-size: 13px; color: var(--ink-2); }
+#boothHelp small { display: block; margin-top: 4px; font-size: 14px; color: var(--ink-2); }
 @keyframes bthIn { from { opacity: 0; transform: translate(-50%, 10px); } }
 .bth-name { margin: 10px 0 4px; display: grid; gap: 6px; justify-items: center; }
 .bth-name label { font-family: var(--f-brush); font-size: 17px; }

diff --git a/_review/r73_booth.js b/_review/r73_booth.js
@@ -8,8 +8,9 @@ const { chromium } = require('/opt/node-tools/node_modules/playwright');
   const S = n => p.screenshot({ path: `_review/shots/booth_${n}.png` });
   const st = () => p.evaluate(() => ({ st: __dbg.state, m: __dbg.run && __dbg.run.m, br: __dbg.run && __dbg.run.breath, perks: __dbg.run && __dbg.run.perks, og: __dbg.run && __dbg.run.ougiId, scr: [...document.querySelectorAll('.scr')].filter(s => !s.hidden).map(s => s.id) }));
   console.log('title', await st(), await p.evaluate(() => getComputedStyle(document.getElementById('boothCol')).display)); await S('1title');
-  await p.click('#bBoothGo'); await p.waitForTimeout(400); console.log('after start', await st());
-  await p.waitForFunction(() => __dbg.state === 'play', null, { timeout: 30000 }); await p.waitForTimeout(800); console.log('gate1', await st()); await S('2gate1');
+  await p.click('#bBoothGo'); await p.waitForTimeout(400); console.log('after start', await st()); await S('1b_interlude');
+  await p.waitForFunction(() => __dbg.state === 'play', null, { timeout: 30000 }); await p.waitForTimeout(800); console.log('gate1', await st(), await p.evaluate(() => document.getElementById('boothHelp').textContent)); await S('2gate1');
+  await p.keyboard.down('KeyD'); await p.waitForTimeout(900); await p.keyboard.up('KeyD'); await p.waitForTimeout(400); console.log('coach after walking', await p.evaluate(() => [document.getElementById('boothHelp').hidden, document.getElementById('boothHelp').textContent])); await S('2b_coach');
   // mouse: hold the right button with the cursor up and right of 무명 → 무아경 aims at it; the release dashes that way
   const pp = await p.evaluate(() => { const P = __dbg.P; return { x: P.x, y: P.y }; });
   await p.mouse.move(1000, 150); await p.mouse.down({ button: 'right' }); await p.waitForTimeout(500);

diff --git a/sw.js b/sw.js
@@ -1,6 +1,6 @@
 // 천고 service worker: network-first for the game files (so updates land on the next launch),
 // cache fallback for offline play, cache-first for Google Fonts.
-const CACHE = "chungo-v165";
+const CACHE = "chungo-v166";
 const ASSETS = "chungo-assets";   // pictures and sound: kept across versions, served at once, refreshed in the background
 const CORE = ["./", "index.html", "manifest.webmanifest",
   "icons/icon-192.png", "icons/icon-512.png", "icons/apple-touch-icon.png"];
